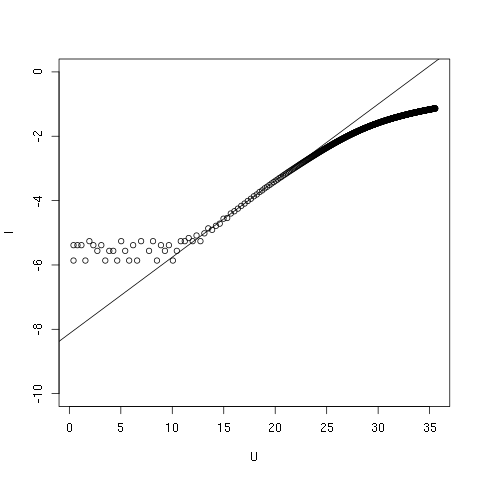
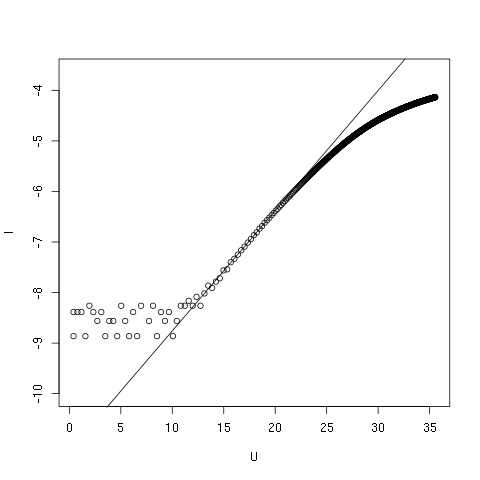
Skończenie sprawozdania 1 EE

diff --git a/EE/Lab2/sprawko.tex b/EE/Lab2/sprawko.tex
@@ -49,7 +49,7 @@ Fragmenty małych prądów i rekombinacyjny jest bardzo mały w charakterystyce,
 W uzyskanej charakterystyce można wyznaczyć trzy obszary. Gdy $\frac{U}{U_t} \in <16,20>$ dioda pracuje w obszarze dominacji prądu dyfuzyjnego. Gdy $\frac{U}{U_t} \in <20,27>$ obszar pracy przechodzi do obszaru prądów unoszenia. Powyżej znajduje się obszar omowy.
 
 Używając metody regresji lniowej na obszarze dyfuzyjnym uzykujemy wynik
-$$ a =  0.2378 \quad b = -8.1374 $$
+$$ a =  0.2378 \quad b = -11.137 $$
 
 Charakterystyka pół logartymiczn w obszarze dyfuzujnym odpowiada
 $$ \ln{I_d} = \frac{u_d}{nU_t} + I_0$$
@@ -57,13 +57,13 @@ Co daje równość
 $$ a = \frac{1}{n} \quad b = I_0 $$
 
 Czyli odpowiednie wartośći są równe
-$$ n = 4,20 \quad I_0 = 2924 \mu A $$
+$$ n = 4,20 \quad I_0 = 14,5 \mu A $$
 
 Gdzie $n$ to współczynnik niedoskonałości łącza, a $I_0$ to wartość prądu dyfuzyjnego
 
 Wiadomym jest że $ I_0 < I_{GR0} $ tak więc, dla przyjętnego uproszczonego równia współczynik 
 $$ I_s = I_0 $$
-$$ I_s = 1812 \mu A $$
+$$ I_s = 14,5 \mu A $$
 
 Rezystancja szeregowa wynosi
 $$ r_s = \frac{\Delta U}{I_d} = \frac{U_d - U_k}{I_d} $$
@@ -79,7 +79,7 @@ Charakterystyki
 \begin{description}
 \item[Napięcie progowe $U_k$] $=0,218\ V$
 \item[Współczynnik niedoskońałośći złącza $n$]  $=3.899$
-\item[Prąd dyfuzyjny $I_0$ ] $=15,05\ mA$
+\item[Prąd dyfuzyjny $I_0$ ] $=796\ \mu A$
 \item[Rezystancja szeregowa ($I=75mA$) $r_s$ ] $=0,934\ \Omega$
 \end{description}
 \section{Dioda impulsowa}
@@ -91,12 +91,56 @@ Charakterystyki
 \begin{description}
 \item[Napięcie progowe $U_k$] $=0,7477\ V$
 \item[Współczynnik niedoskońałośći złącza $n$]  $=4,2542$
-\item[Prąd dyfuzyjny $I_0$ ] $=223\ \muA$
+\item[Prąd dyfuzyjny $I_0$ ] $=73\ \mu A$
 \item[Rezystancja szeregowa ($I=73mA$) $r_s$ ] $=1,924\ \Omega$
 \end{description}
-
+\newpage
+\includegraphics[scale=0.9]{out/diody-all.png}
+Z pary bliko siedzie bardziej nachylony należy do diody impulsowej.
+\subsection{Wnioski}
+Charakterystyka bardzo mocno zależy od materiału diody. Widać znaczną róznicę między diodą germanową a krzemowymi. Rówież samo wykonanie diody oraz preferowane zastosowanie (w przypadku diody impulsowej układy w.cz.) wpływają na jej charakterystyki napięciowo-prądowe.
 \section{Diody stabilizacyjne}
-\includegraphics[scale=0.48]{out/stabilizacyjne.png}
+\begin{center}
+\includegraphics[scale=0.48]{out/stabilizacja.png}
+\end{center}
+\subsection{Rezystancja dynamiczna}
+\begin{center}
+\begin{tabular}{|c|c|c|c|}
+\hline
+Dioda & $0,1mA$ & $1mA$ & $10mA$ \\
+\hline
+$3,6V$ & $1000 \Omega$ & $350 \Omega$ & $60 \Omega$ \\
+\hline
+$5,4V$ & $1250 \Omega$ & $386 \Omega$ & $26,98 \Omega$ \\
+\hline
+$7,5V$ & $4936.5 \Omega$ & $53 \Omega$ & $39,27 \Omega$ \\
+\hline
+\end{tabular}
+\end{center}
+Różnice w charakterystyce kształcie charektyrystk jak również w wartościach
+rezystancji dynamicznej wynikają z całkwitej domiennośći zajawisk fizycznych
+działających w diodzie.
 
+Dla diod o niskim napięciu ($3,6V$;$5,4V$) dominującym zjawiskiem jest efekt Zennera. Dla diod o wysokim napięciu stabilizacji zajwiskiem odpowiedialnyum za przeowdzenie diody jest przebicie lawinowe.
+To właśnie ono powoduje posiadanie tak znacznej rezystancji dynamicznej dla małych prądów oraz szybki jej spadem wraz wzrostem płynącego prądu.
 
+Diody o przebiciu opierające swoje działanie o effekt zenner posiadają lepsze właściwości stabilizacyjne ze względu na bardziej stomą charakterystykę. Dzięki temu trzymają się bliżej zadanego napięcia. Argumentem za tym są niskie wartości rezystancji dynamicznej 
+
+\section{Diody LED}
+\begin{center}
+\includegraphics[scale=0.48]{out/led-normal.png}
+\end{center}
+Napięcia na diodach przy prądzie $1mA$
+\begin{center}
+\begin{tabular}{|c|c|c|c|c|}
+  \hline
+  $I_d$ & Biała & Żółta & Zielona & Pomarańczowa \\
+  \hline
+  $1mA$ & $2,9V$ & $1,76V$& $1,8V$ & $1,77V$ \\
+  \hline
+\end{tabular}
+\end{center}
+
+\subsection{Wnioski}
+Diody posiadają rożne napięcie dzialania w zależności od koloru światła. Powodowane jest to różnymi materiałami służacymi do ich budowy i uzyskania światła. Jendak w przypadku większości kolorów punkt zadziałania jest bardzo blisko siebie ($1,77V$) 
 \end{document}
